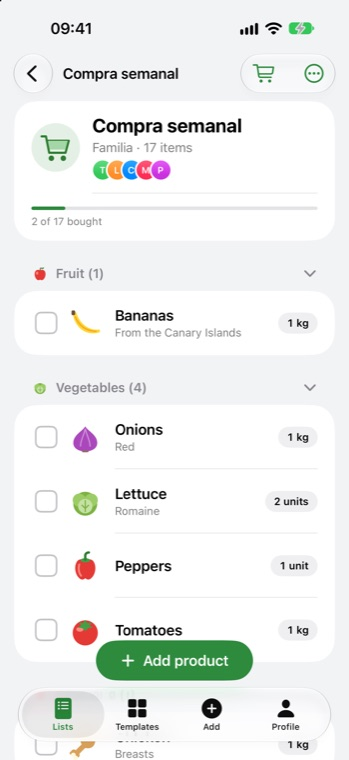
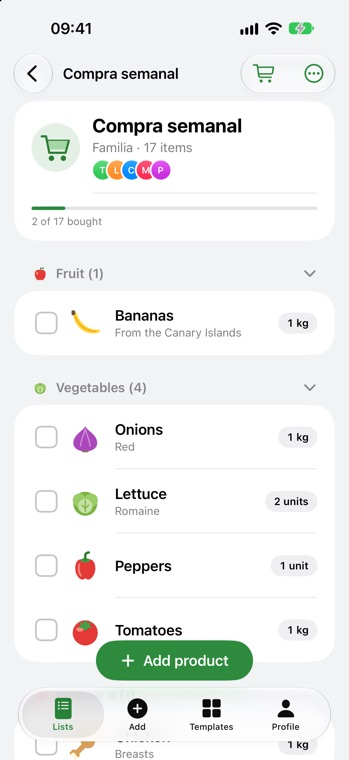
KeBuy en portugués (Brasil y Portugal)
Selector de idiomas con capturas nuevas en los seis idiomas (con el nuevo
orden de pestañas) y textos actualizados a seis idiomas.

diff --git a/kebuy/index.html b/kebuy/index.html
@@ -4,7 +4,7 @@
   <meta charset="utf-8">
   <meta name="viewport" content="width=device-width, initial-scale=1">
   <title>KeBuy · La lista de la compra que se comparte sola</title>
-  <meta name="description" content="KeBuy es la lista de la compra para iPhone que compartes con tu familia: un dibujo para cada producto, buscador inteligente, escáner de códigos, productos privados y en cuatro idiomas.">
+  <meta name="description" content="KeBuy es la lista de la compra para iPhone que compartes con tu familia: un dibujo para cada producto, buscador inteligente, escáner de códigos, productos privados y en seis idiomas.">
   <meta property="og:title" content="KeBuy · La compra, juntos">
   <meta property="og:description" content="La lista de la compra que se comparte sola con los tuyos.">
   <meta property="og:image" content="img/kebuy-icon.png">
@@ -42,7 +42,7 @@
           </div>
           <ul class="mini-proof reveal d3">
             <li><b>≈650</b> productos con dibujo</li>
-            <li><b>4</b> idiomas</li>
+            <li><b>6</b> idiomas</li>
             <li><b>0</b> anuncios</li>
           </ul>
         </div>
@@ -180,11 +180,13 @@
           <div>
             <span class="eyebrow reveal">Idiomas</span>
             <h2 class="reveal d1">Tú escribes <span style="white-space:nowrap"><span class="swap" data-swap>Plátanos</span>.</span><br>Cada uno lo lee en su idioma.</h2>
-            <p class="lead reveal d2">KeBuy habla español, català, English y 中文. Todo el catálogo está traducido, y los productos que creas tú se traducen solos en el iPhone. Una misma lista, cada persona en su idioma.</p>
+            <p class="lead reveal d2">KeBuy habla español, català, English, português y 中文. Todo el catálogo está traducido, y los productos que creas tú se traducen solos en el iPhone. Una misma lista, cada persona en su idioma.</p>
             <div class="lang-tabs reveal d3" role="tablist" aria-label="Idioma de la captura">
               <button class="chip on" role="tab" aria-selected="true" data-lang="es">Español</button>
               <button class="chip" role="tab" aria-selected="false" data-lang="ca">Català</button>
               <button class="chip" role="tab" aria-selected="false" data-lang="en">English</button>
+              <button class="chip" role="tab" aria-selected="false" data-lang="ptbr">Português (BR)</button>
+              <button class="chip" role="tab" aria-selected="false" data-lang="ptpt">Português (PT)</button>
               <button class="chip" role="tab" aria-selected="false" data-lang="zh">中文</button>
             </div>
           </div>
@@ -245,7 +247,7 @@
           <details class="reveal"><summary>¿Puedo usarla sin compartir con nadie?</summary><p>Claro. Tus listas personales son solo tuyas, y puedes tener grupos o no tenerlos.</p></details>
           <details class="reveal"><summary>¿Funciona sin internet?</summary><p>Sí. Todo funciona en el iPhone y los cambios se envían a iCloud cuando vuelve la conexión, sin perder nada.</p></details>
           <details class="reveal"><summary>¿Los administradores del grupo pueden ver mis productos privados?</summary><p>No. Los productos privados nunca salen de tu espacio privado de iCloud, así que nadie más puede verlos.</p></details>
-          <details class="reveal"><summary>¿En qué idiomas está?</summary><p>Español, catalán, inglés y chino simplificado. Puedes cambiarlo en Perfil → Idioma.</p></details>
+          <details class="reveal"><summary>¿En qué idiomas está?</summary><p>Español, catalán, inglés, portugués de Brasil, portugués de Portugal y chino simplificado. Puedes cambiarlo en Perfil → Idioma.</p></details>
           <details class="reveal"><summary>¿Cuándo sale?</summary><p>Muy pronto en el App Store. Ahora mismo está en pruebas con TestFlight.</p></details>
         </div>
       </div>

diff --git a/kebuy/kebuy.js b/kebuy/kebuy.js
@@ -37,9 +37,11 @@
     es: { img: "list.jpg", word: "Plátanos", bubble: "Plátanos · De Canarias", alt: "La lista Compra semanal en español" },
     ca: { img: "list-ca.jpg", word: "Plàtans", bubble: "Plàtans · De Canàries", alt: "La llista Compra semanal en català" },
     en: { img: "list-en.jpg", word: "Bananas", bubble: "Bananas · From the Canary Islands", alt: "The Compra semanal list in English" },
+    ptbr: { img: "list-ptbr.jpg", word: "Bananas", bubble: "Bananas · Das Canárias", alt: "A lista Compra semanal em português do Brasil" },
+    ptpt: { img: "list-ptpt.jpg", word: "Bananas", bubble: "Bananas · Das Canárias", alt: "A lista Compra semanal em português de Portugal" },
     zh: { img: "list-zh.jpg", word: "香蕉", bubble: "香蕉 · 加那利产", alt: "中文版的 Compra semanal 清单" },
   };
-  const order = ["es", "ca", "en", "zh"];
+  const order = ["es", "ca", "en", "ptbr", "ptpt", "zh"];
   const img = document.querySelector("[data-lang-img]");
   const bubble = document.querySelector("[data-bubble]");
   const word = document.querySelector("[data-swap]");

diff --git a/kebuy/soporte.html b/kebuy/soporte.html
@@ -35,7 +35,7 @@
     <details><summary>¿Quién ve mis productos privados?</summary><p>Solo tú. Se guardan en tu espacio privado de iCloud y nunca se comparten con el grupo.</p></details>
 
     <h2>Idioma y ajustes</h2>
-    <details><summary>¿Cómo cambio el idioma?</summary><p>Perfil → Idioma, o Ajustes de iOS → Apps → KeBuy → Idioma. KeBuy está en español, catalán, inglés y chino.</p></details>
+    <details><summary>¿Cómo cambio el idioma?</summary><p>Perfil → Idioma, o Ajustes de iOS → Apps → KeBuy → Idioma. KeBuy está en español, catalán, inglés, portugués (de Brasil y de Portugal) y chino.</p></details>
     <details><summary>Un producto que he creado sale sin traducir</summary><p>Abre su ficha y, en «Traducciones», escribe el nombre en los otros idiomas o toca «Traducir automáticamente». El catalán siempre se escribe a mano.</p></details>
     <details><summary>¿Dónde está la despensa?</summary><p>Es opcional. Actívala en Perfil → Funciones → Despensa.</p></details>
 

diff --git a/assets/js/apps.js b/assets/js/apps.js
@@ -14,7 +14,7 @@ window.PATU = {
       name: "KeBuy",
       tagline: "La lista de la compra que se comparte sola.",
       description:
-        "Listas compartidas con tu familia, un dibujo para cada producto, buscador inteligente y en cuatro idiomas.",
+        "Listas compartidas con tu familia, un dibujo para cada producto, buscador inteligente y en seis idiomas.",
       icon: "kebuy/img/kebuy-icon.png",
       url: "kebuy/",
       accent: "#2E8B3E",
